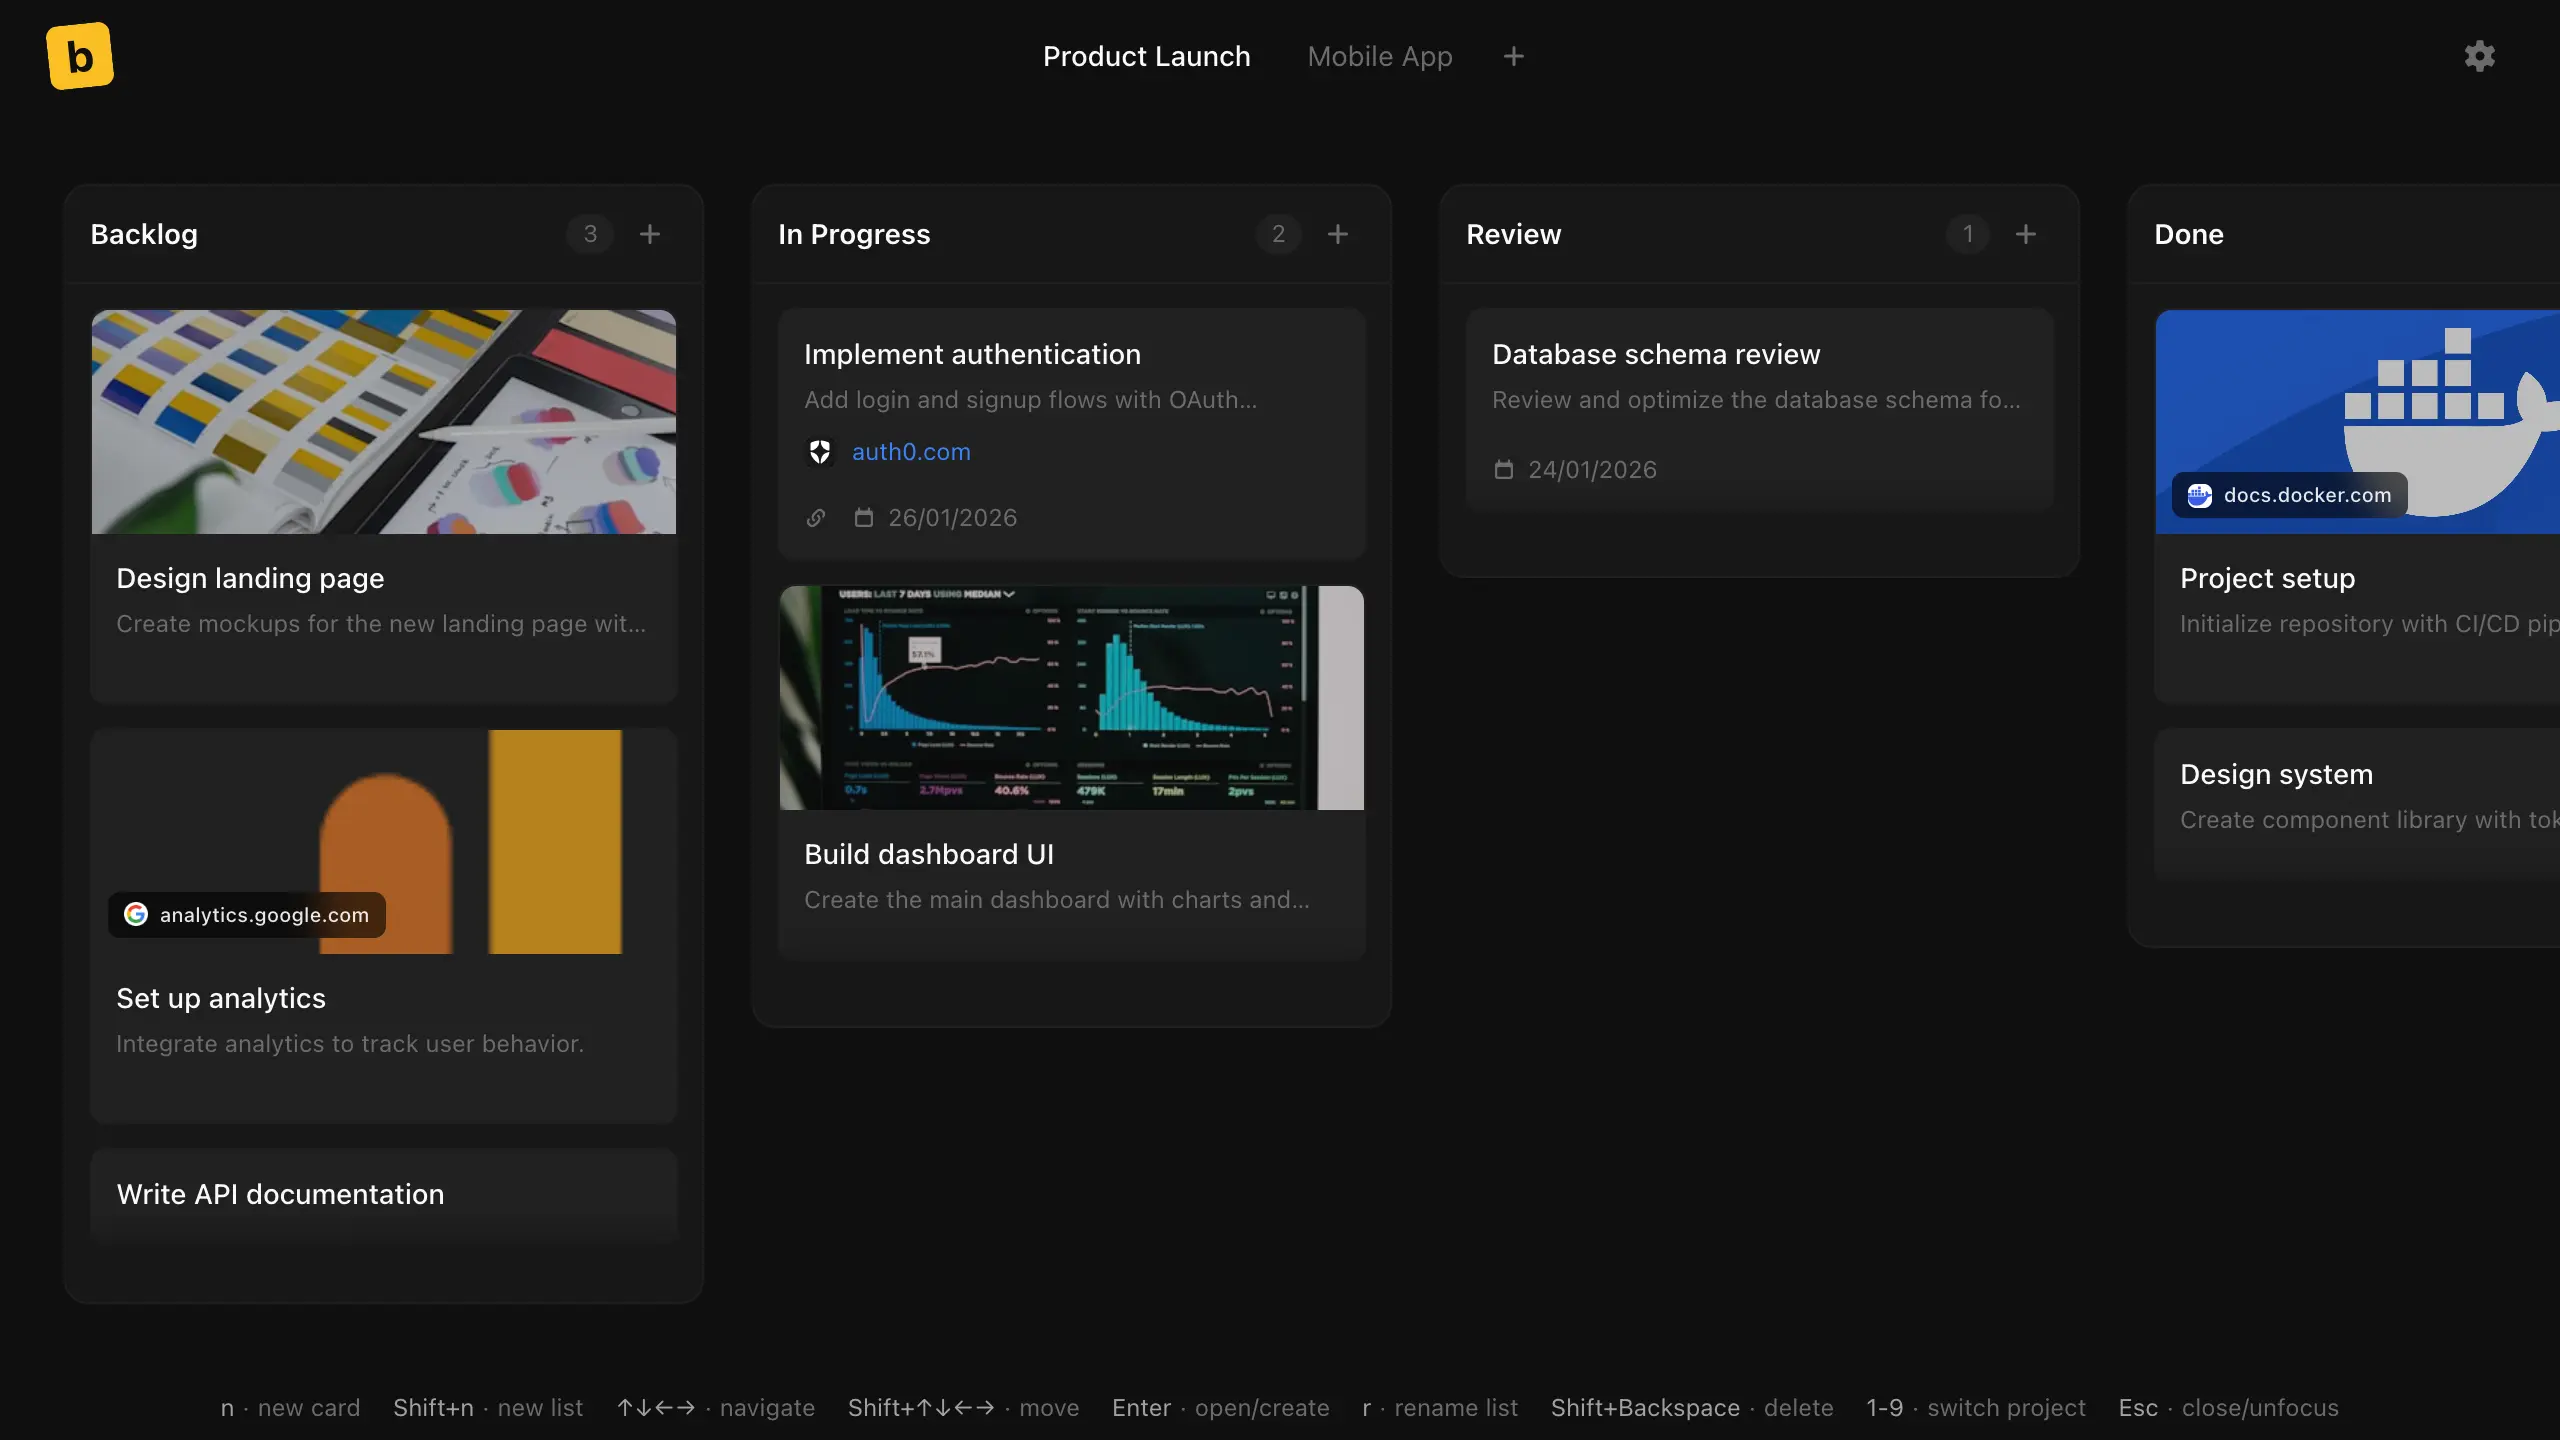
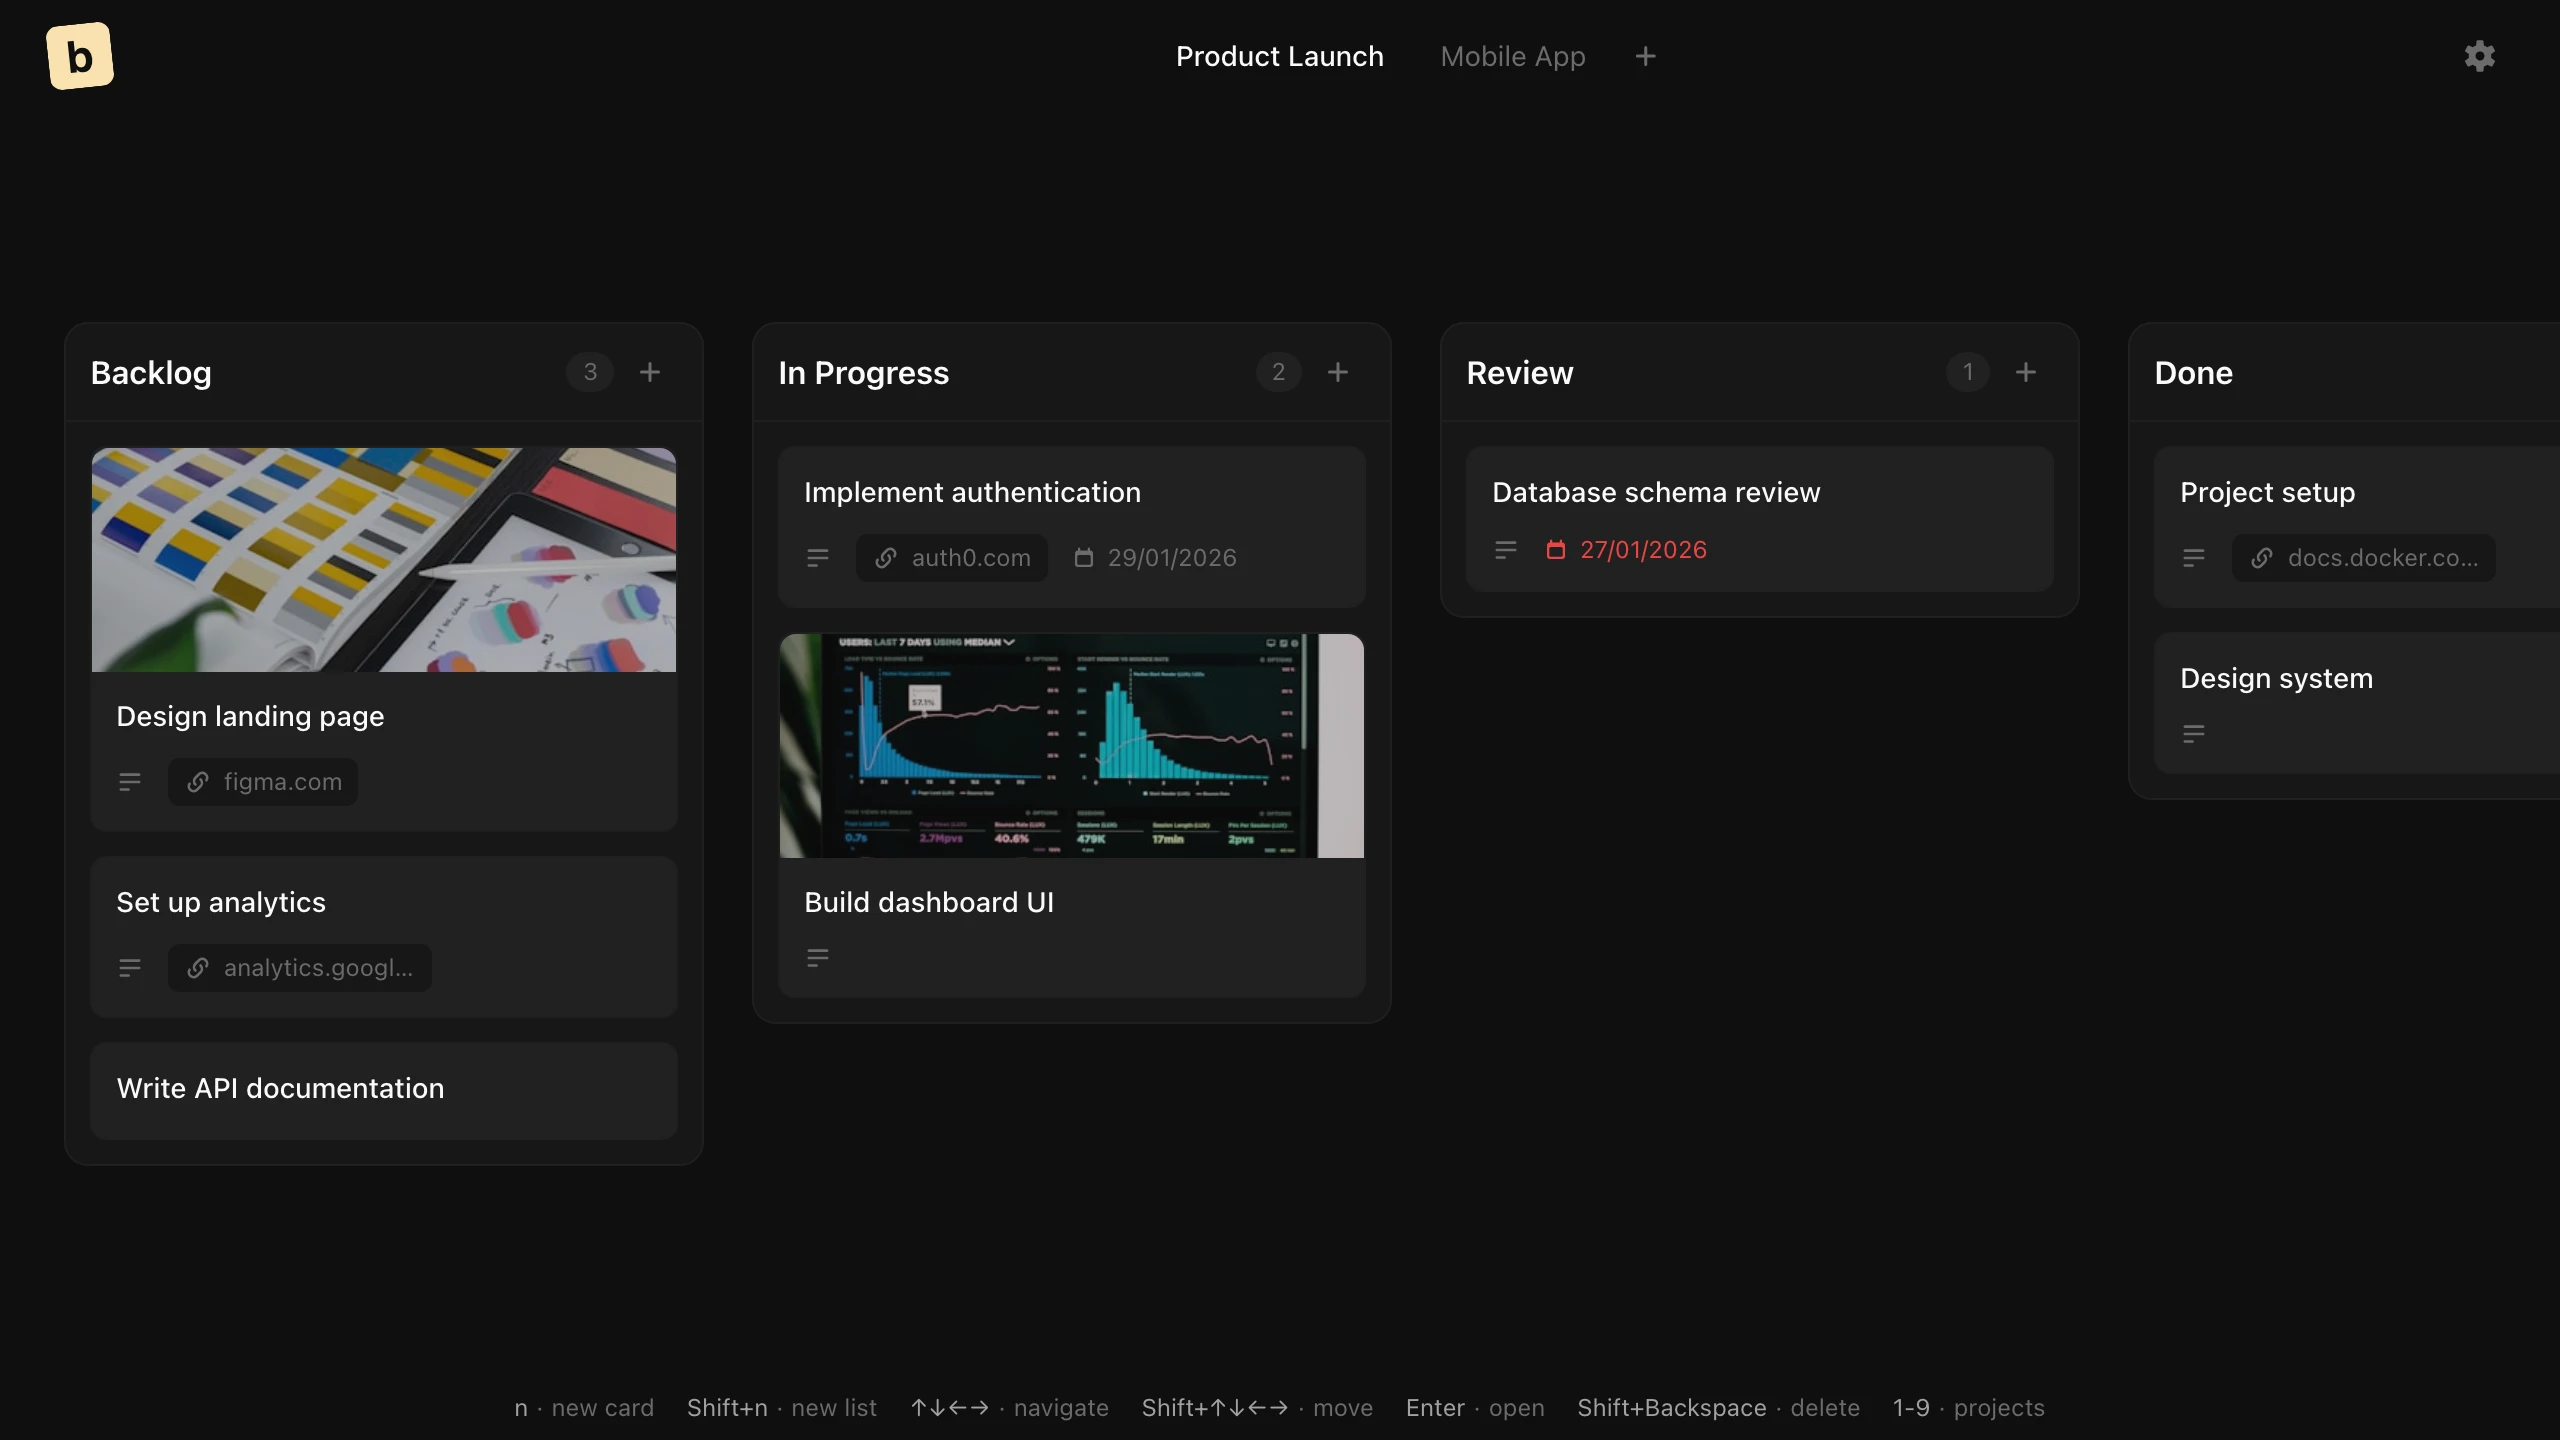
Update screenshot.js to create webp

diff --git a/scripts/screenshot.js b/scripts/screenshot.js
@@ -256,10 +256,11 @@ async function takeScreenshot() {
     await new Promise((r) => setTimeout(r, 2000));
 
     console.log('Taking screenshot...');
-    const screenshotPath = path.join(ROOT_DIR, 'docs', 'screenshot.png');
+    const screenshotPath = path.join(ROOT_DIR, 'docs', 'screenshot.webp');
     await page.screenshot({
       path: screenshotPath,
-      type: 'png',
+      type: 'webp',
+      quality: 90,
     });
 
     console.log(`Screenshot saved to ${screenshotPath}`);
